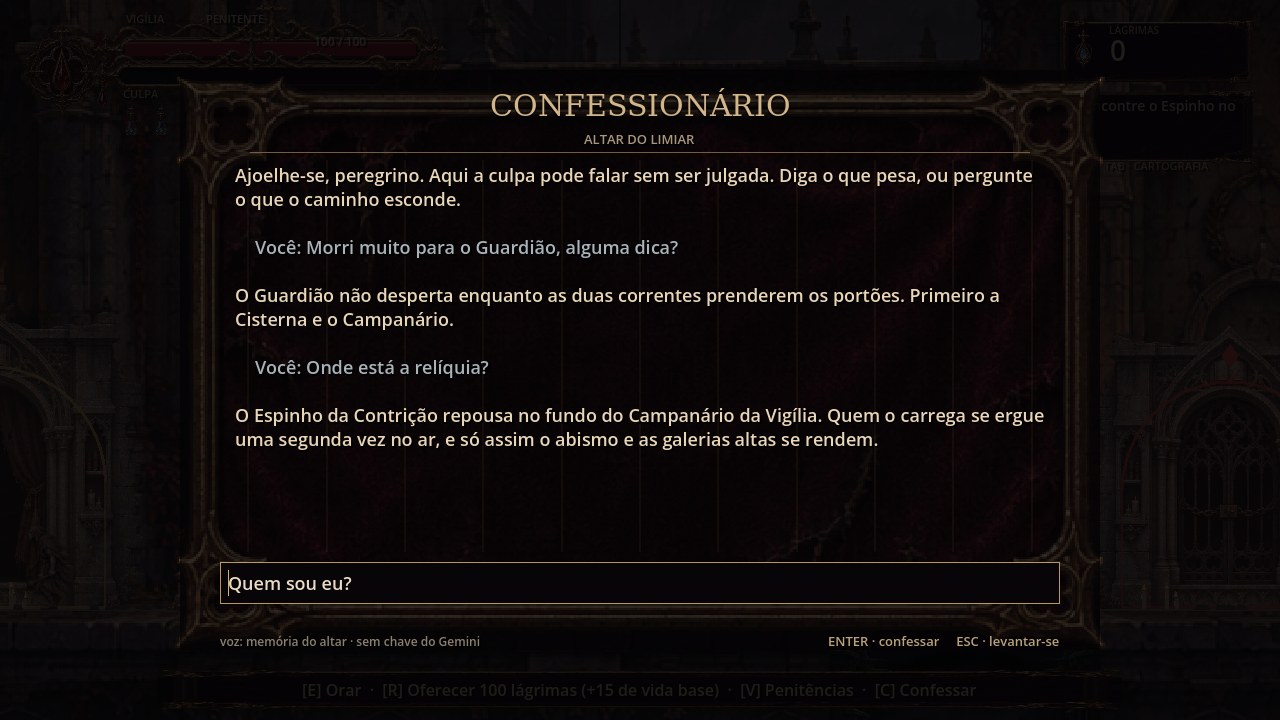
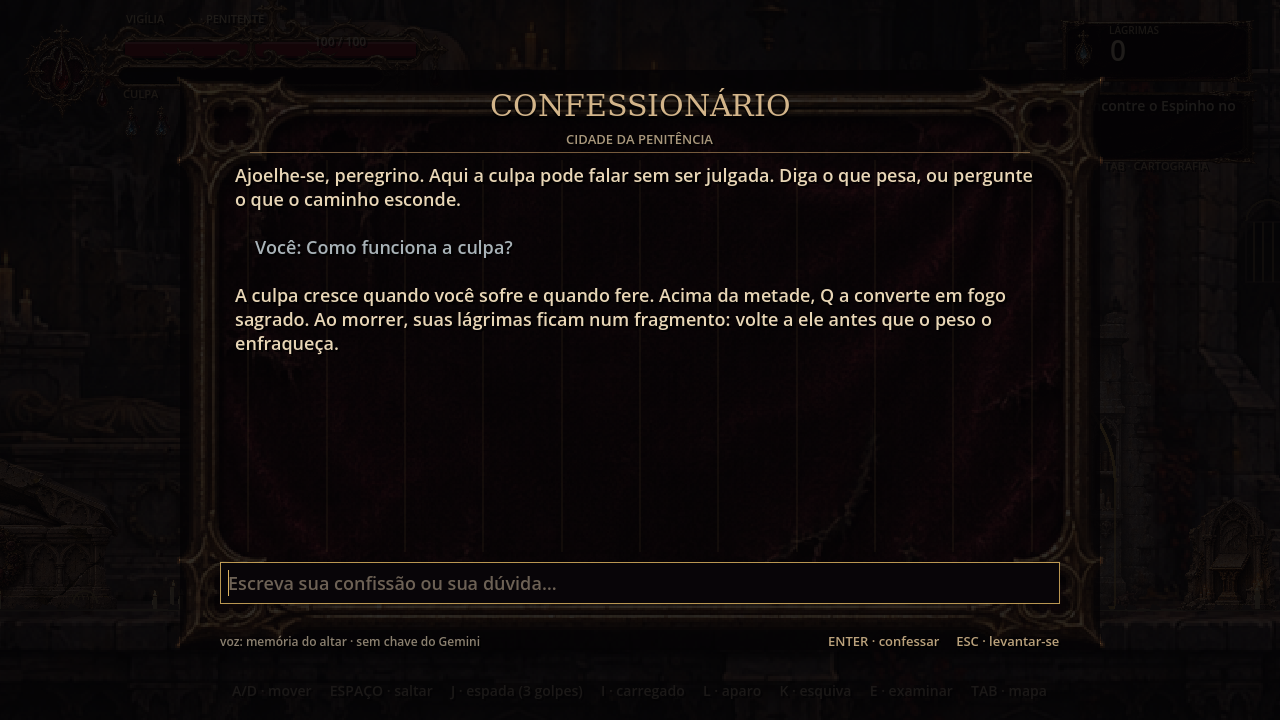
Confessionário: abre com C em qualquer lugar, fora de combate
- C funciona em qualquer sala e fase, no chão ou no ar; não depende mais
  de estar num altar. O painel mostra o nome do altar ou do lugar.
- combat_reason() bloqueia o C com o Guardião desperto, arena fechada,
  inimigo perseguindo/atacando/ferido/atordoado a até 420 px do Penitente
  ou de Beatriz, ou o Penitente no meio de golpe, esquiva, cura ou ferimento.
  Depois do combate são exigidos 1,5 s de calma; o motivo aparece num aviso.
- HUD: dica "C · CONFESSAR", apagada enquanto não for possível.
- Textos do Confessor, README e docs/confessionario.md atualizados.
- tests/confessor_smoke.gd cobre os bloqueios (42 verificações).

diff --git a/docs/confessionario.md b/docs/confessionario.md
@@ -1,6 +1,6 @@
-# Confessionário: chat com IA nos altares
+# Confessionário: chat com IA
 
-Em qualquer altar, **C** abre o Confessionário. O peregrino escreve uma pergunta ou confissão e o **Confessor**, uma voz sem rosto atrás da grade, responde no tom do jogo. O mundo fica pausado durante a conversa. **ENTER** envia e **ESC** fecha.
+Em qualquer lugar e em qualquer fase, **C** abre o Confessionário, desde que o peregrino não esteja em combate. O peregrino escreve uma pergunta ou confissão e o **Confessor**, uma voz sem rosto atrás da grade, responde no tom do jogo. O mundo fica pausado durante a conversa. **ENTER** envia e **ESC** fecha.
 
 O Confessor serve para:
 
@@ -17,11 +17,21 @@ O Confessor serve para:
    ```
    godot --headless --path . --script res://tests/confessor_live_check.gd
    ```
-4. Jogue normalmente (F5) e aperte **C** num altar.
+4. Jogue normalmente (F5) e aperte **C** fora de combate.
 
 `ia_local.cfg` está no `.gitignore`, então **a chave não vai para o GitHub**. Também dá para usar a variável de ambiente `GEMINI_API_KEY` ou, num jogo exportado, o arquivo `user://ia.cfg` com o mesmo formato. No Windows, esse arquivo fica em `%APPDATA%\Godot\app_userdata\Lacrimae of the Penitent\`.
 
 **Sem chave, sem internet ou com o limite gratuito esgotado**, o Confessor continua respondendo com falas prontas por assunto, usando o objetivo atual do jogador. O rodapé do painel mostra quem respondeu: `voz: Gemini` ou `voz: memória do altar`, junto com o motivo.
+
+## Quando dá para abrir
+
+**C** funciona em qualquer sala, no chão ou no ar, desde que o jogo esteja em andamento e o peregrino **não esteja em combate**. Conta como combate (`combat_reason()` em `main.gd`, o mesmo critério da música de combate):
+
+- o Guardião dos Sinos desperto ou uma arena ainda fechada;
+- um inimigo perseguindo, atacando, ferido ou atordoado a menos de 420 px do Penitente ou de Beatriz;
+- o próprio Penitente no meio de um golpe, esquiva, aparo, cura ou ferimento.
+
+Ao sair do combate, é preciso esperar 1,5 s de calma (`CALM_BEFORE_CONFESSION`). Se o jogador apertar C antes disso, uma mensagem explica o motivo. No HUD, ao lado de "TAB · CARTOGRAFIA", a dica **C · CONFESSAR** fica apagada enquanto não for possível. Cenas, mensagens, mapa e menu de penitências também bloqueiam a tecla, porque já pausam o jogador. O painel mostra o nome do altar quando o peregrino está num altar e, fora dele, o nome do lugar.
 
 ## Como funciona
 
@@ -42,7 +52,7 @@ O Confessor serve para:
   O pedido é assíncrono (`HTTPRequest`), com tempo limite de 15 s e resposta de até 400 tokens. Se o modelo recusar `thinkingConfig`, o Confessor tenta de novo uma vez sem ele.
 - **`scripts/confession_panel.gd`**: o painel do Confessionário, no estilo do HUD.
 - **`scripts/telemetry.gd`**: registra localmente as mortes e o tempo por lugar e as dúvidas por assunto.
-- **`scripts/main.gd`**: liga tudo. Cuida da tecla C no altar, de `open_confession` e `close_confession` (pausa e retomada), e registra mortes e tempo.
+- **`scripts/main.gd`**: liga tudo. Cuida da tecla C (`try_open_confession` e `combat_reason`), de `open_confession` e `close_confession` (pausa e retomada), e registra mortes e tempo.
 
 **Peso no jogo:** não há plugin nem modelo local. A IA só faz uma requisição curta por pergunta, nunca durante o combate.
 

diff --git a/README.md b/README.md
@@ -26,7 +26,7 @@ Jogo de ação e exploração 2D feito no Godot. A história acompanha o Peniten
 - **TAB:** abrir o mapa
 - **H:** compartilhar sangue; perto do parceiro caído, segurar para levantá-lo
 - **P:** reduzir pulsos e tremores (no título ou na pausa)
-- **C (no altar):** abrir o Confessionário, um chat com IA (Gemini) que tira dúvidas e dá pistas; veja [docs/confessionario.md](docs/confessionario.md)
+- **C:** abrir o Confessionário em qualquer lugar, fora de combate: um chat com IA (Gemini) que tira dúvidas e dá pistas; veja [docs/confessionario.md](docs/confessionario.md)
 - **F3:** modo dev; ↑/↓ selecionam sala, Enter transporta, G alterna invencibilidade, N alterna voo e B vai ao chefe
 - **F4:** alternar Beatriz entre IA e jogadora 2
 - **Enter:** iniciar; **C:** continuar salvamento no título
